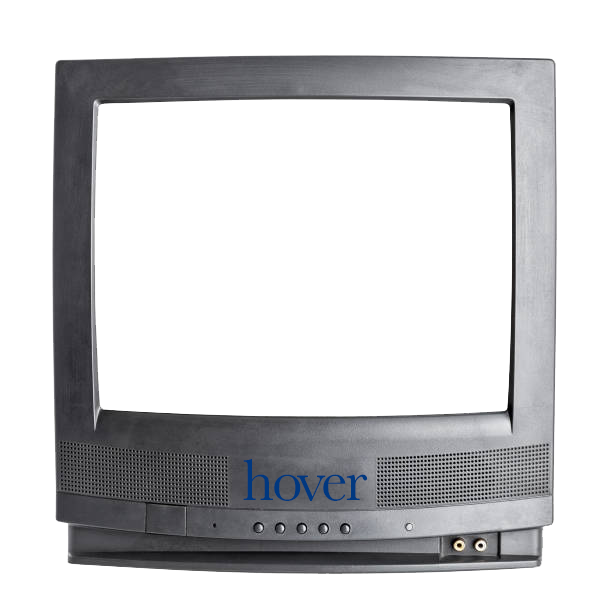
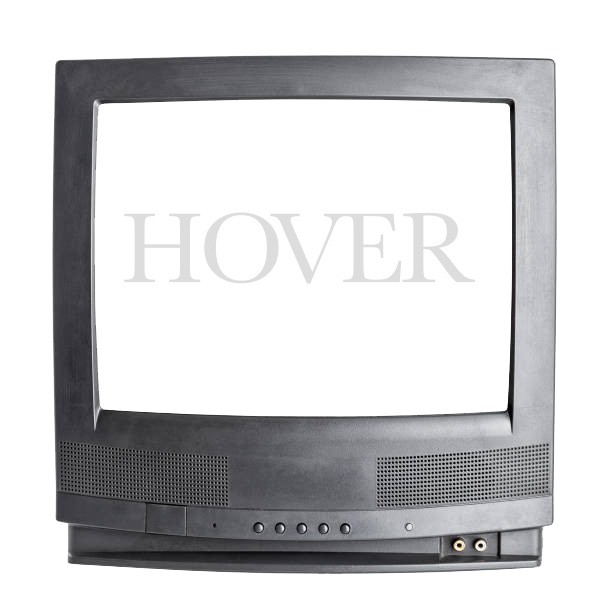
update tv

Changed region(s): [[0.2173, 0.3415, 0.5278, 0.4657], [0.5278, 0.3415, 0.7761, 0.4657], [0.4036, 0.7451, 0.5899, 0.8382]]

diff --git a/src/Homepage.js b/src/Homepage.js
@@ -1,5 +1,6 @@
 import { React, useState, useEffect } from "react";
 import tv from "./tv.png";
+import tv2 from "./tv2.png";
 import { Glitch } from "react-teffex";
 import { Typewriter } from "react-teffex";
 import sam from "./sam.png";
@@ -15,16 +16,16 @@ function Homepage() {
     setBlur(true);
   }
 
-  const names = ["Y", "M", "M", "A"];
+  // const names = ["Y", "M", "M", "A"];
 
-  function joinArray(arr) {
-    arr.push("S");
-    let backward = arr.reverse();
-    let newArr = backward.join(" :) ");
-    console.log(newArr);
-  }
+  // function joinArray(arr) {
+  //   arr.push("S");
+  //   let backward = arr.reverse();
+  //   let newArr = backward.join(" :) ");
+  //   console.log(newArr);
+  // }
 
-  joinArray(names);
+  // joinArray(names);
 
   let myGlitchEffects4 = (
     <div>
@@ -49,7 +50,7 @@ function Homepage() {
         {/* <h1>SAM GUBERNIKOFF</h1> */}
         <div className="tv-hold">
           <img
-            src={tv}
+            src={blur ? tv : tv2}
             className="tv"
             onMouseEnter={() => enterTV()}
             onMouseLeave={() => exitTV()}
